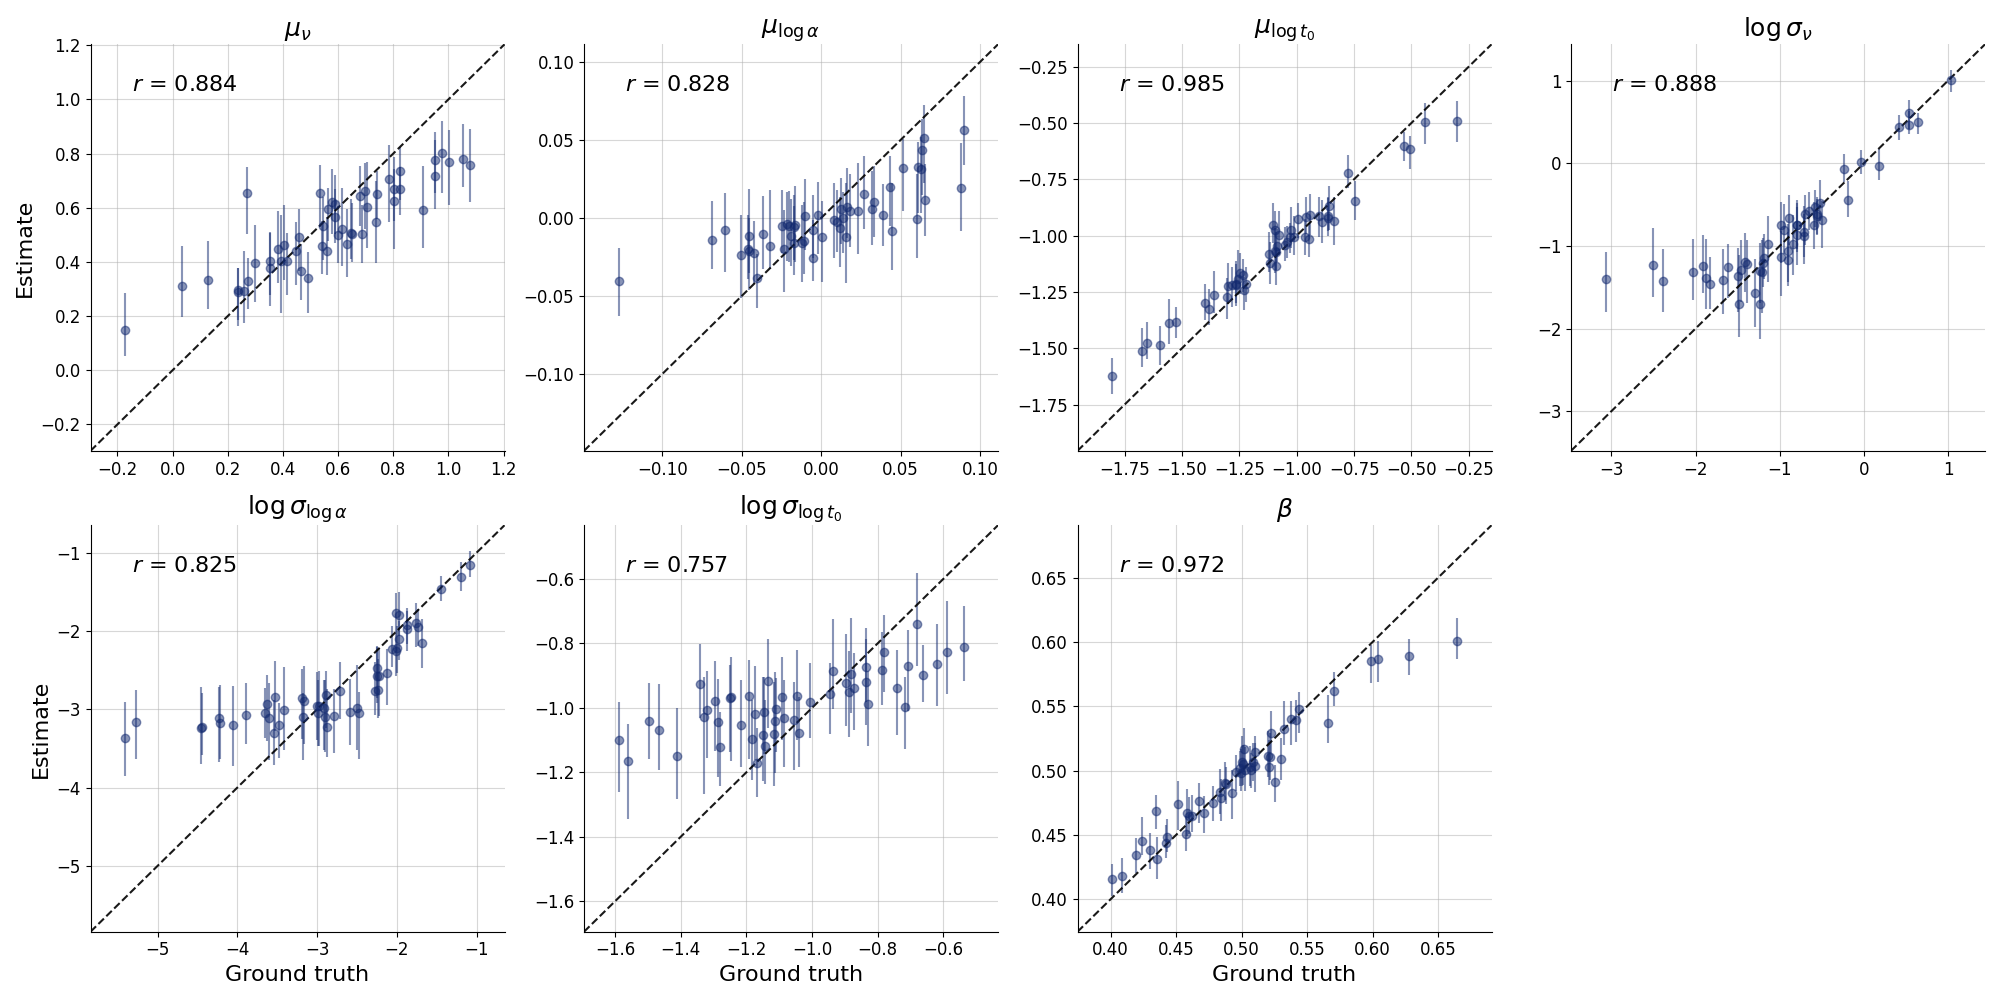
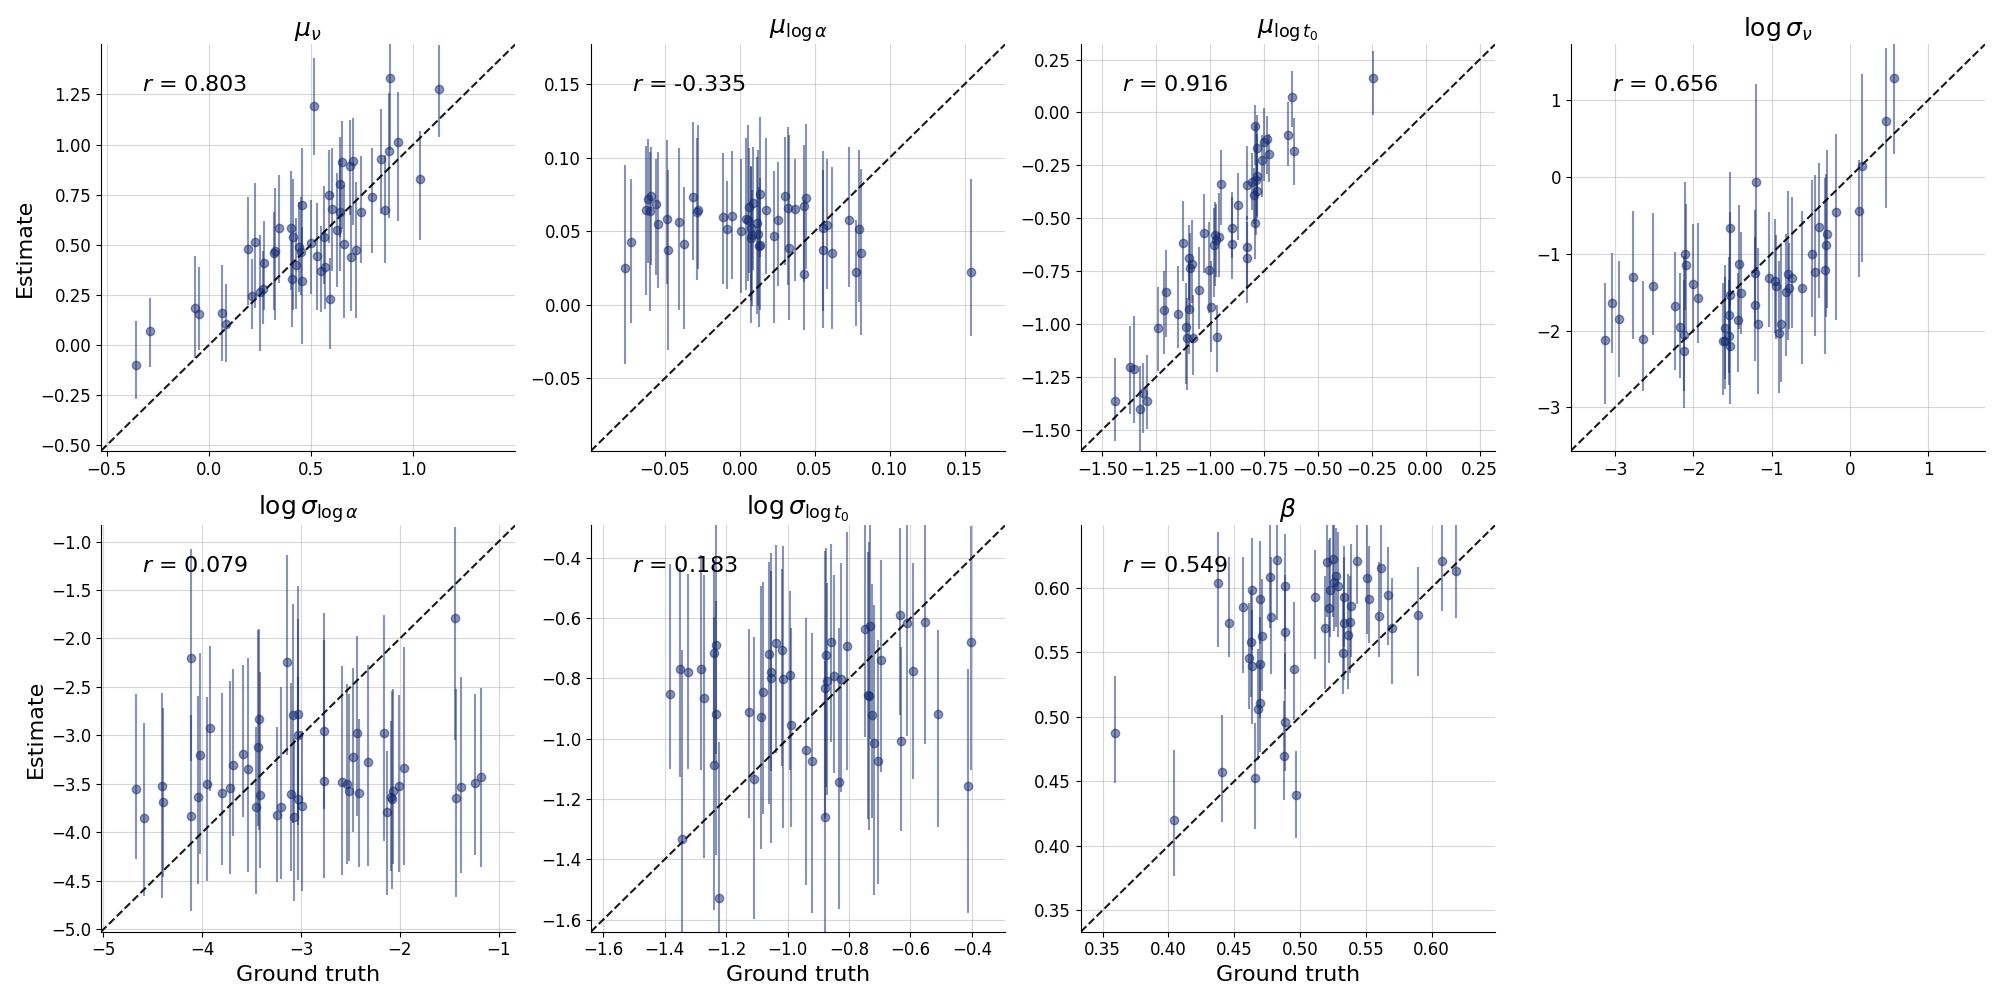
generate_trainingset now save mean and std, standardization in partial_pooling

diff --git a/case_study5/generate_trainingset.py b/case_study5/generate_trainingset.py
@@ -1,17 +1,7 @@
 from autocvd import autocvd
 autocvd(num_gpus = 1)
 
-
 import os
-# if "KERAS_BACKEND" not in os.environ:
-#     os.environ["KERAS_BACKEND"] = "jax"
-# else:
-#     print(f"Using '{os.environ['KERAS_BACKEND']}' backend")
-# os.environ["CUDA_VISIBLE_DEVICES"] = "5"
-
-# import bayesflow as bf
-
-
 import numpy as np
 import jax
 from jax import jit, random
@@ -21,30 +11,38 @@ import jax.lax as lax
 
 from astropy import units as u
 
-# from case_study5.stream_simulator_gala import sample_hierarchical_stream_priors, simulate_stream
-# from case_study5.stream_simulator_gala import simulator_hierarchical
-
-# from stream_simulator_galax import sample_hierarchical_stream_priors, simulate_stream
-# from stream_simulator_galax import simulator_hierarchical
-
 from stream_simulator_odisseo import sample_hierarchical_stream_priors, simulate_stream
-# from stream_simulator_odisseo import simulator_hierarchical
 
-n_training = 50_000
-batch_training = 100
+n_training = 20_000
+batch_training = 400
 n_stars = 1000 
 
 
 prior_samples = {}
-for i in range(0, n_training, ):
+for i in range(0, n_training):
     if i == 0:
-        sample = sample_hierarchical_stream_priors(n_streams=1, )
+        sample = sample_hierarchical_stream_priors(n_streams=1)
         for key in sample.keys():
             prior_samples[key] = [sample[key]]
     else:
-        sample = sample_hierarchical_stream_priors(n_streams=1, )
+        sample = sample_hierarchical_stream_priors(n_streams=1)
         for key in sample.keys():
             prior_samples[key].append(sample[key])
+
+# Convert to arrays and expand dims for all parameters except sim_data
+prior_samples_arrays = {}
+for key in prior_samples.keys():
+    arr = np.array(prior_samples[key])
+    # Add trailing dimension: (n_training,) -> (n_training, 1)
+    if arr.ndim == 1:
+        prior_samples_arrays[key] = np.expand_dims(arr, axis=-1)
+    else:
+        prior_samples_arrays[key] = arr
+
+# Debug: print shapes
+print("Prior samples shapes (after expand_dims):")
+for key, arr in prior_samples_arrays.items():
+    print(f"  {key}: {arr.shape}")
 
 def simulate_one(p):
     return simulate_stream(
@@ -59,31 +57,113 @@ def simulate_one(p):
         m_nfw=p["m_nfw"],
         r_s=p["r_s"],
         gamma=p["gamma"],
-        j=p["j"],                    # or fixed global j
+        j=p["j"],
         n_streams=1,
         n_stars=n_stars,
         key=p["key"],
     )["sim_data"]
 
-params = {k: jnp.asarray(v) for k, v in prior_samples.items()}
-N = params["prog_mass"].shape[0]
+# For simulation, use the original (non-expanded) arrays
+params_for_sim = {k: jnp.asarray(prior_samples[k]) for k in prior_samples.keys()}
+N = len(prior_samples["prog_mass"])
 keys = random.split(random.PRNGKey(0), N)
-params_with_keys = dict(**params, key=keys)
+params_with_keys = dict(**params_for_sim, key=keys)
 
 batched_map = partial(
     lax.map,
     simulate_one,
-    batch_size=batch_training,   # tune for GPU/TPU memory
+    batch_size=batch_training,
 )
 
 sim_data = batched_map(params_with_keys)
-print(sim_data.shape)   # (n_training, n_stars, 6)
+print("sim_data shape:", sim_data.shape)  # (n_training, n_stars, 6)
 
-sim_data = {"sim_data": sim_data,}
+# Save with expanded parameter shapes
+np.savez('./case_study5/training_set_odisseo.npz', 
+         sim_data=sim_data,
+         **prior_samples_arrays)
 
-np.savez('./training_set_odisseo.npz', 
-         **sim_data,
-         **prior_samples)
+# Verify saved shapes
+print("\nFinal saved shapes:")
+print(f"  sim_data: {sim_data.shape}")
+for key, arr in prior_samples_arrays.items():
+    print(f"  {key}: {arr.shape}")
 
+# add mean and std computation
+data = np.load('./case_study5/training_set_odisseo.npz', allow_pickle=True)
+sim_data = data['sim_data']
+mean_sim_data = np.mean(sim_data, axis=(0, 1))  
+std_sim_data = np.std(sim_data, axis=(0, 1))   
 
-    
+m_nfw = data['m_nfw']
+mean_m_nfw = np.mean(m_nfw, axis=0)
+std_m_nfw = np.std(m_nfw, axis=0)
+
+r_s = data['r_s']
+mean_r_s = np.mean(r_s, axis=0)
+std_r_s = np.std(r_s, axis=0)
+
+prog_mass = data['prog_mass']
+mean_prog_mass = np.mean(prog_mass, axis=0)
+std_prog_mass = np.std(prog_mass, axis=0)
+
+t_end = data['t_end']
+mean_t_end = np.mean(t_end, axis=0)
+std_t_end = np.std(t_end, axis=0)
+
+x_c = data['x_c']
+mean_x_c = np.mean(x_c, axis=0)
+std_x_c = np.std(x_c, axis=0)
+y_c = data['y_c']
+mean_y_c = np.mean(y_c, axis=0)
+std_y_c = np.std(y_c, axis=0)
+z_c = data['z_c']
+mean_z_c = np.mean(z_c, axis=0)
+std_z_c = np.std(z_c, axis=0)
+v_xc = data['v_xc']
+mean_v_xc = np.mean(v_xc, axis=0)
+std_v_xc = np.std(v_xc, axis=0)
+v_yc = data['v_yc']
+mean_v_yc = np.mean(v_yc, axis=0)
+std_v_yc = np.std(v_yc, axis=0)
+v_zc = data['v_zc']
+mean_v_zc = np.mean(v_zc, axis=0)
+std_v_zc = np.std(v_zc, axis=0)
+
+np.savez('./case_study5/training_set_odisseo.npz',
+        j=data['j'],
+        gamma=data['gamma'],
+        sim_data = sim_data,
+        mean_sim_data = mean_sim_data,
+        std_sim_data = std_sim_data,
+        m_nfw = m_nfw,
+        mean_m_nfw = mean_m_nfw,
+        std_m_nfw = std_m_nfw,
+        r_s = r_s,
+        mean_r_s = mean_r_s,
+        std_r_s = std_r_s,
+        prog_mass = prog_mass,
+        mean_prog_mass = mean_prog_mass,
+        std_prog_mass = std_prog_mass,
+        t_end = t_end,
+        mean_t_end = mean_t_end,
+        std_t_end = std_t_end,
+        x_c = x_c,
+        mean_x_c = mean_x_c,
+        std_x_c = std_x_c,
+        y_c = y_c,
+        mean_y_c = mean_y_c,
+        std_y_c = std_y_c,
+        z_c = z_c,
+        mean_z_c = mean_z_c,
+        std_z_c = std_z_c,
+        v_xc = v_xc,
+        mean_v_xc = mean_v_xc,
+        std_v_xc = std_v_xc,
+        v_yc = v_yc,
+        mean_v_yc = mean_v_yc,
+        std_v_yc = std_v_yc,
+        v_zc = v_zc,
+        mean_v_zc = mean_v_zc,
+        std_v_zc = std_v_zc 
+)

diff --git a/case_study5/partial_pooling.py b/case_study5/partial_pooling.py
@@ -35,45 +35,6 @@ def prior_global_score(x: dict[str, np.ndarray]) -> dict[str, np.ndarray]:
 
     return score
 
-# def prior_global_score(x: dict[str, np.ndarray]) -> dict[str, np.ndarray]:
-#     # Debug: print the keys and shapes to understand the input structure
-#     print("Keys in x:", x.keys())
-#     for k, v in x.items():
-#         if hasattr(v, 'shape'):
-#             print(f"  {k}: shape = {v.shape}")
-#         else:
-#             print(f"  {k}: type = {type(v)}")
-    
-#     # Based on DDM example, try using inference_variables if that's what's passed
-#     if "inference_variables" in x:
-#         inference_vars = x["inference_variables"]
-#         score = {
-#             "inference_variables": np.zeros_like(inference_vars),
-#         }
-#     else:
-#         m_nfw = x["m_nfw"]
-#         r_s = x["r_s"]
-#         score = {
-#             "m_nfw": np.zeros_like(m_nfw),
-#             "r_s": np.zeros_like(r_s),
-#         }
-
-#     return score
-
-
-# def prior_global_score(x: dict[str, np.ndarray]) -> dict[str, np.ndarray]:
-#     m_nfw = x["m_nfw"]
-#     r_s = x["r_s"]
-    
-#     # Add the extra dimension to match the adapter's expand_dims
-#     # Input shape: (batch, samples) -> Output shape: (batch, samples, 1)
-#     score = {
-#         "m_nfw": np.expand_dims(np.zeros_like(m_nfw), axis=-1),
-#         "r_s": np.expand_dims(np.zeros_like(r_s), axis=-1),
-#     }
-
-#     return score
-
 param_names_global = ['m_nfw', 'r_s',]
 pretty_param_names_global = [r'$M_{200}$', r'$r_s$', ]
 
@@ -86,17 +47,31 @@ pretty_params_names_local = [r'$M_{prog}$', r'$t_{end}$',
                             r'$x^c$', r'$y^c$', r'$z^c$',
                             r'$v^c_x$', r'$v^c_y$', r'$v^c_z$']
 
+training_data = dict(np.load('./case_study5/training_set_odisseo.npz', allow_pickle=True))
+
+
 adapter = (
     bf.adapters.Adapter()
     .to_array()
     .convert_dtype("float64", "float32")
-    # .expand_dims("m_nfw", axis=-1)  # Ensure (batch,) -> (batch, 1)
-    # .expand_dims("r_s", axis=-1)    # Ensure (batch,) -> (batch, 1)
+    # .standardize("sim_data",
+    #              mean=training_data['mean_sim_data'],
+    #              std=training_data['std_sim_data'])
+    # .standardize("m_nfw",
+    #              mean=training_data['mean_m_nfw'],
+    #              std=training_data['std_m_nfw'])
+    # .standardize("r_s",
+    #              mean=training_data['mean_r_s'],
+    #              std=training_data['std_r_s'])
+    .log("m_nfw")
+    .log("r_s")
     .concatenate(param_names_global, into="inference_variables")
-    # .expand_dims("j", axis=-1)
     .rename("j", "inference_conditions")
+    # .as_set("sim_data")
     .rename("sim_data", "summary_variables")
 )
+
+del training_data  # free up memory
 
 workflow_global = bf.BasicWorkflow(
     adapter=adapter,
@@ -104,31 +79,13 @@ workflow_global = bf.BasicWorkflow(
     inference_network=bf.networks.CompositionalDiffusionModel(),
 )
 
-# model_path = BASE / 'models' / 'partial_pooling_global.keras'
-# if not os.path.exists(model_path):
-#     os.makedirs(name= BASE / 'models', exist_ok=True)
-
-#     training_data = dict(np.load('./case_study5/training_set_odisseo.npz', allow_pickle=True))
-#     # training_data = {k: np.array(training_data[k]) for k in training_data.keys()}
-#     history = workflow_global.fit_offline(
-#         training_data,
-#         epochs=EPOCHS,
-#         batch_size=BATCH_SIZE,
-#         verbose=2,
-#     )
-#     workflow_global.approximator.save(model_path)
-# else:
-#     workflow_global.approximator = keras.models.load_model(model_path)
 
 model_path = BASE / 'models' / 'partial_pooling_global.keras'
 if not os.path.exists(model_path):
     os.makedirs(name= BASE / 'models', exist_ok=True)
-
-    training_data_npz = dict(np.load('./case_study5/training_set_odisseo.npz', allow_pickle=True))
-    training_data = {k: np.expand_dims(np.array(training_data_npz[k]), axis=-1) for k in training_data_npz.keys() if k not in ['sim_data']}
-    training_data['sim_data'] = training_data_npz['sim_data']
-
-    
+    training_data_raw = dict(np.load('./case_study5/training_set_odisseo.npz', allow_pickle=True))
+    # Filter out mean/std arrays from training data
+    training_data = {k: v for k, v in training_data_raw.items() if not k.startswith('mean_') and not k.startswith('std_')}  
     # Debug: print shapes of training data
     print("Training data shapes:")
     for k, v in training_data.items():

diff --git a/case_study4/partial_pooling.py b/case_study4/partial_pooling.py
@@ -36,6 +36,14 @@ param_names_local = ['nu', 'alpha', 't0']
 param_metrics = ['nu', 'alpha', 't0', 'beta']
 pretty_param_names_local = [r'$\nu_p$', r'$\alpha_p$', r'$t_{0,p}$'] + [r'$\beta$']
 
+test_data = simulator_hierarchical.sample_parallel(N_TEST, n_subjects=N_SUBJECTS, n_trials=N_TRIALS, n_jobs=1)
+print('shapes of test data:')
+for k, v in test_data.items():
+    if hasattr(v, 'shape'):
+        print(f"  {k}: {v.shape}")
+    else:
+        print(f"  {k}: type = {type(v)}")
+exit()
 
 #%%
 adapter = (
@@ -57,6 +65,12 @@ if not os.path.exists(model_path):
     os.makedirs(name= BASE / 'models', exist_ok=True)
     # training_data = simulator_hierarchical.sample_parallel((N_TRAINING_BATCHES * BATCH_SIZE), n_trials=N_TRIALS, n_jobs=1)
     training_data = simulator_hierarchical.sample((N_TRAINING_BATCHES * BATCH_SIZE), n_trials=N_TRIALS, )
+    print("shapes of training data:")
+    for k, v in training_data.items():
+        if hasattr(v, 'shape'):
+            print(f"  {k}: {v.shape}")
+        else:
+            print(f"  {k}: type = {type(v)}")
 
     history = workflow_global.fit_offline(
         training_data,
@@ -70,6 +84,12 @@ else:
 
 #%%
 test_data = simulator_hierarchical.sample_parallel(N_TEST, n_subjects=N_SUBJECTS, n_trials=N_TRIALS, n_jobs=1)
+print('shapes of test data:')
+for k, v in test_data.items():
+    if hasattr(v, 'shape'):
+        print(f"  {k}: {v.shape}")
+    else:
+        print(f"  {k}: type = {type(v)}")
 
 #%%
 logging.info("Starting Partial-Pooling (global) inference...")

diff --git a/case_study4/settings.py b/case_study4/settings.py
@@ -6,7 +6,7 @@ from tqdm import tqdm
 
 N_TRAINING_BATCHES = 256
 BATCH_SIZE = 128
-EPOCHS = 500
+EPOCHS = 2
 N_TRIALS = 30
 N_SUBJECTS = 100
 N_SAMPLES = 100

diff --git a/case_study5/settings.py b/case_study5/settings.py
@@ -6,7 +6,7 @@ from tqdm import tqdm
 
 N_TRAINING_BATCHES = 256
 BATCH_SIZE = 128
-EPOCHS = 250
+EPOCHS = 50
 N_TRIALS = 30
 N_SUBJECTS = 2
 N_SAMPLES = 100
